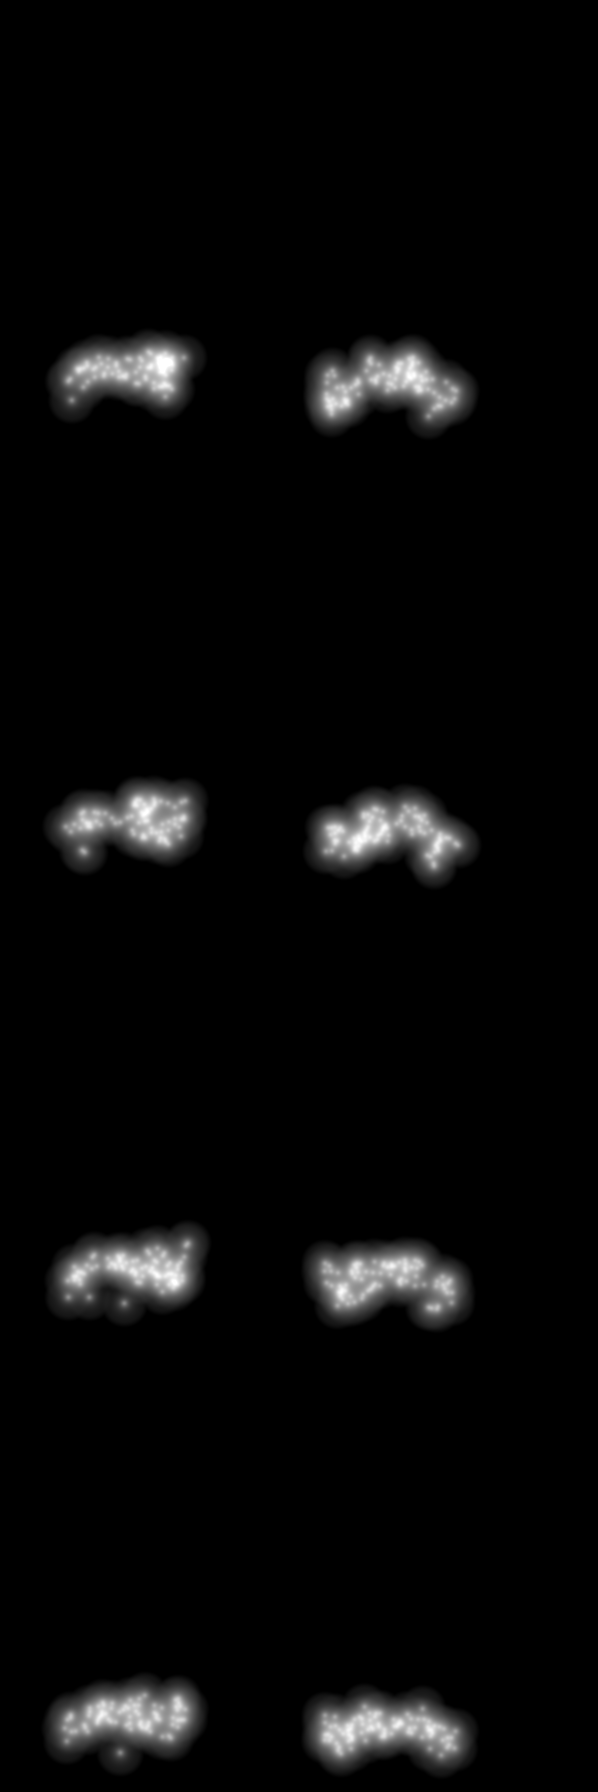
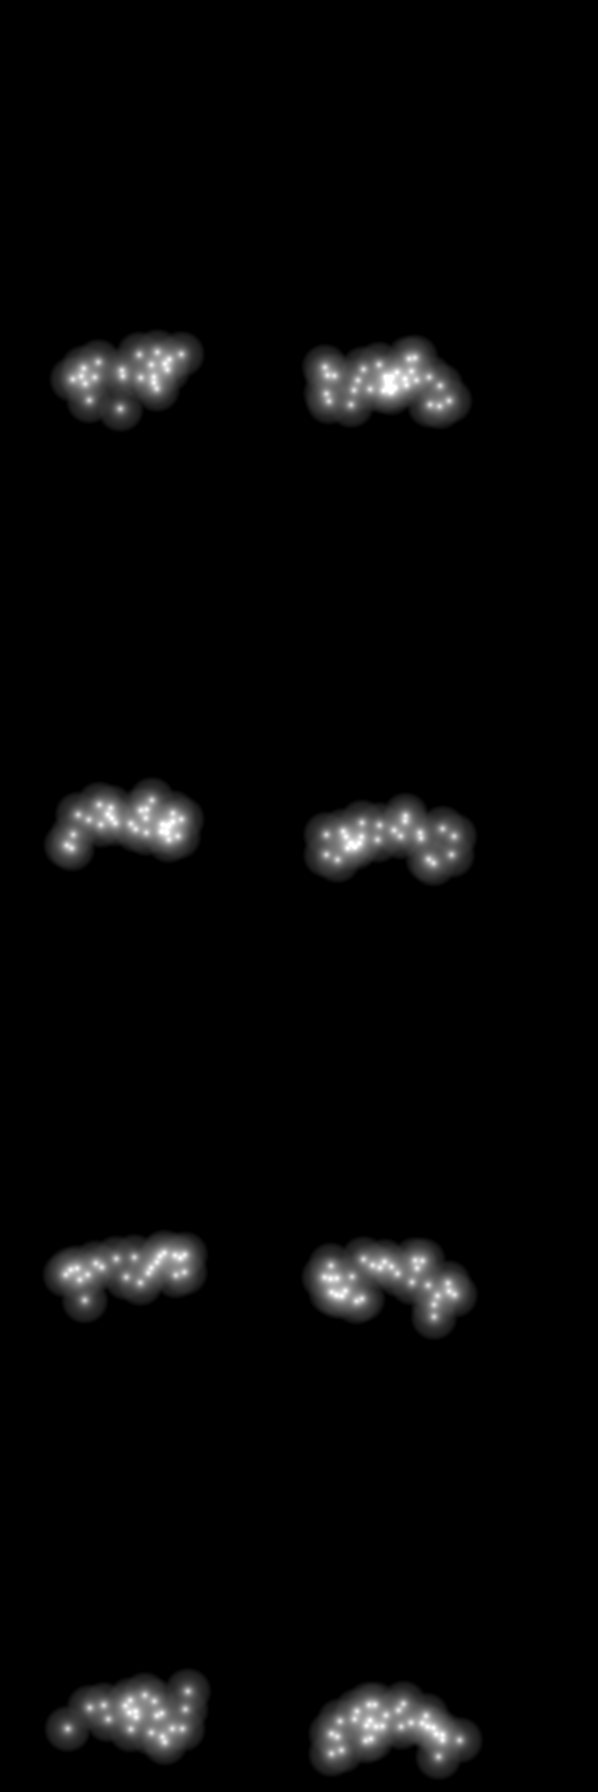
Kim lights: lower prices (rails $3/ft, columns and posts $40, garland $8/ft), pines removed, back stair lights stop where the real rails end, shrub nets thinned
Claude-Session: https://claude.ai/code/session_01YXcUTCVaxQYCoghA18zKvq

diff --git a/assets/quotes/kim-voyager-lights-e72f/index.html b/assets/quotes/kim-voyager-lights-e72f/index.html
@@ -96,24 +96,23 @@ var GROUPS=[
   {id:"rf",view:"front",kind:"roof",layers:{front:"rf",side:"rs"},label:"Roofline, front and sides",note:"200 ft",price:200*11.5,on:true},
   {id:"rb",view:"back",kind:"roof",label:"Back roofline",note:"75 ft",price:75*11.5}]},
  {name:"Front",sub:"",items:[
-  {id:"fu",view:"front",kind:"mini",label:"Top deck railing",note:"69 ft",price:69*6,on:true},
-  {id:"fp",view:"front",kind:"mini",label:"Porch railing",note:"64 ft",price:64*6,on:true},
-  {id:"fs",view:"front",kind:"mini",label:"Front stair handrails",note:"50 ft",price:50*6,on:true},
-  {id:"fc",view:"front",kind:"mini",label:"Porch columns",note:"14",price:14*110,on:true}]},
+  {id:"fu",view:"front",kind:"mini",label:"Top deck railing",note:"69 ft",price:210,on:true},
+  {id:"fp",view:"front",kind:"mini",label:"Porch railing",note:"64 ft",price:190,on:true},
+  {id:"fs",view:"front",kind:"mini",label:"Front stair handrails",note:"50 ft",price:150,on:true},
+  {id:"fc",view:"front",kind:"mini",label:"Porch columns",note:"14",price:560,on:true}]},
  {name:"Back",sub:"",items:[
-  {id:"bd",view:"back",kind:"mini",label:"Back deck railings",note:"110 ft",price:110*6},
-  {id:"bs",view:"back",kind:"mini",label:"Back stair handrails",note:"72 ft",price:72*6},
-  {id:"bp",view:"back",kind:"mini",label:"Back deck posts",note:"14",price:14*110}]},
+  {id:"bd",view:"back",kind:"mini",label:"Back deck railings",note:"110 ft",price:330},
+  {id:"bs",view:"back",kind:"mini",label:"Back stair handrails",note:"72 ft",price:215},
+  {id:"bp",view:"back",kind:"mini",label:"Back deck posts",note:"14",price:560}]},
  {name:"Wreaths and garland",sub:"",items:[
   {id:"wg",view:"front",kind:"decor",label:"Wreath on the center peak",sizes:[["36 in",110],["48 in",175],["60 in",325]],size:1},
   {id:"wd",view:"front",kind:"decor",label:"Wreaths on the small peaks",note:"Two 24 in",price:2*60},
   {id:"wf",view:"front",kind:"decor",label:"Front door wreath",sizes:[["24 in",60],["36 in",110]],size:1},
   {id:"wr",view:"front",kind:"decor",label:"Wreaths on the top deck railing",note:"Six 24 in",price:6*60},
-  {id:"gs",view:"front",kind:"decor",label:"Garland, stair rails",note:"50 ft",price:50*20},
-  {id:"gp",view:"front",kind:"decor",label:"Garland, top deck railing",note:"69 ft",price:69*20},
-  {id:"gd",view:"front",kind:"decor",label:"Garland, front door",note:"20 ft",price:20*20}]},
+  {id:"gs",view:"front",kind:"decor",label:"Garland, stair rails",note:"50 ft",price:400},
+  {id:"gp",view:"front",kind:"decor",label:"Garland, top deck railing",note:"69 ft",price:550},
+  {id:"gd",view:"front",kind:"decor",label:"Garland, front door",note:"20 ft",price:160}]},
  {name:"Yard",sub:"",items:[
-  {id:"tp",view:"back",kind:"mini",label:"Pine trees by the pool",note:"18 ft and 24 ft",price:(18+24)*30},
   {id:"sh",view:"front",kind:"mini",label:"Front shrubs",note:"6",price:6*75}]}];
 var ALL=[];GROUPS.forEach(function(g){g.items.forEach(function(i){ALL.push(i)})});
 var VIEWS={front:{base:"lights/base-front.jpg"},back:{base:"lights/base-back.jpg"},side:{base:"lights/base-side.jpg"}};
